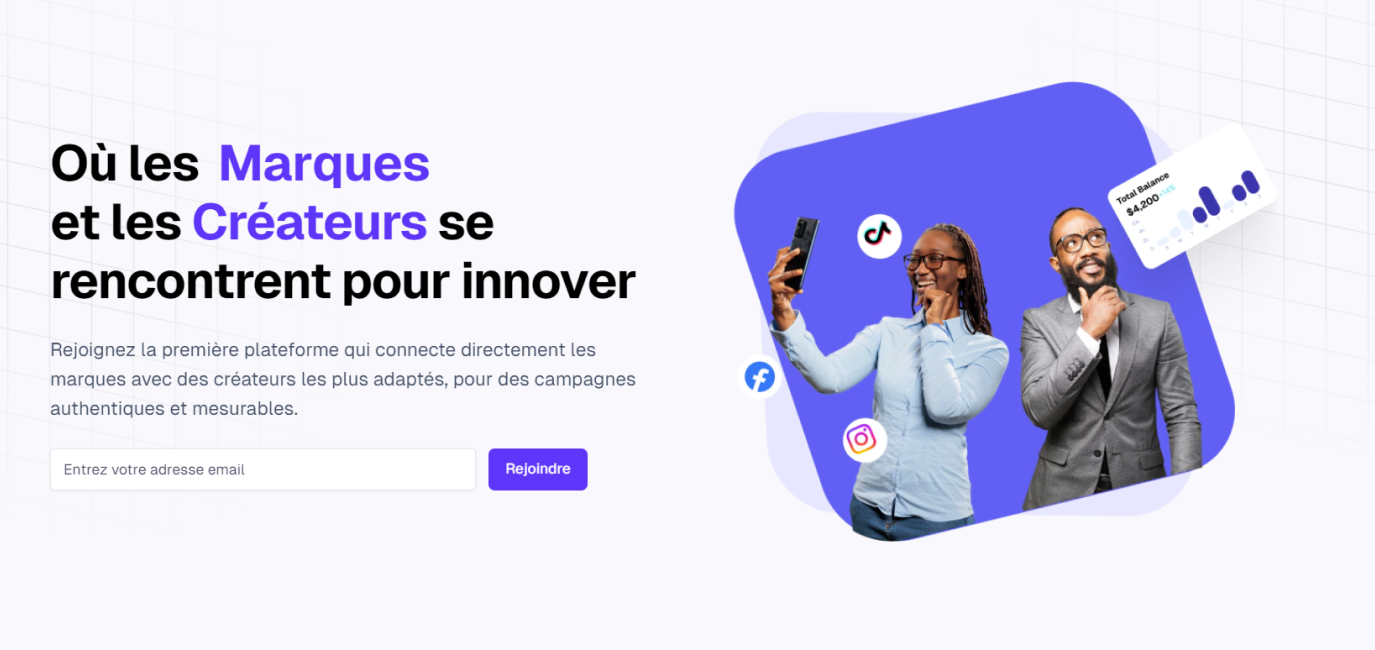
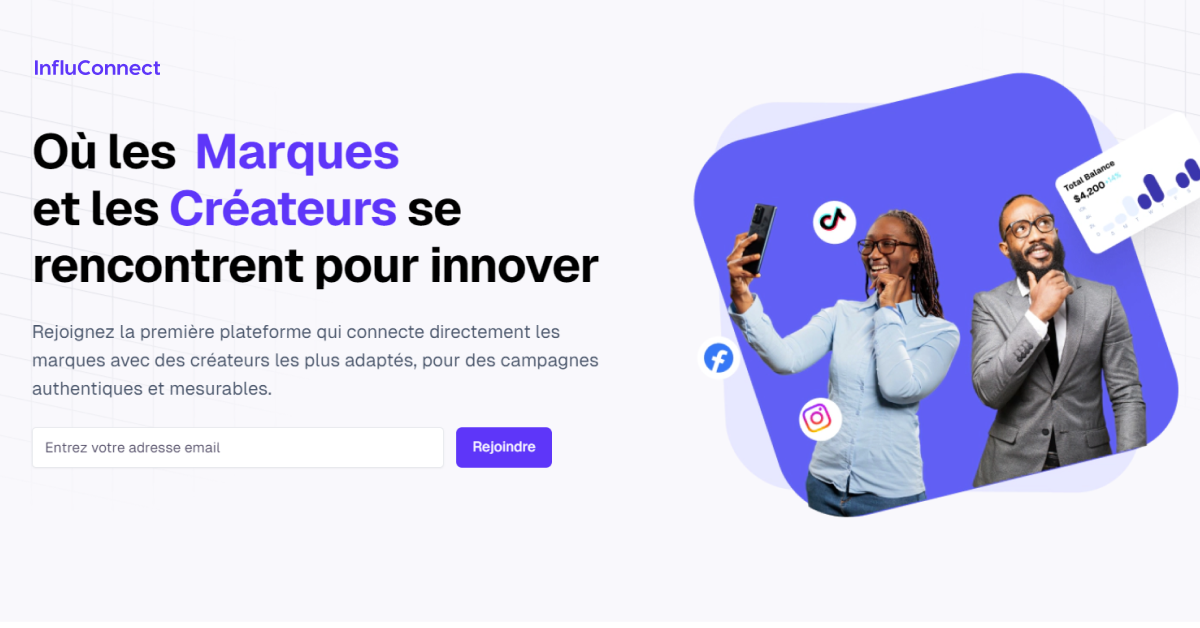
style: update the width and height of og image

diff --git a/src/lib/next-seo-config.ts b/src/lib/next-seo-config.ts
@@ -10,8 +10,8 @@ export type HeadSeoProps = {
   nextSeoProps?: NextSeoProps;
 };
 
-export const OG_WIDTH = 500; //1200
-export const OG_HEIGHT = 500; //630
+export const OG_WIDTH = 1200;
+export const OG_HEIGHT = 628;
 export const DEFAULT_SEO_TITLE = `InfluConnect - Où les Marques et les Créateurs se rencontrent pour innover`;
 export const DEFAULT_SEO_DESCRIPTION =
   'Rejoignez la première plateforme qui connecte directement les marques avec des créateurs les plus adaptés, pour des campagnes authentiques et mesurables.';
